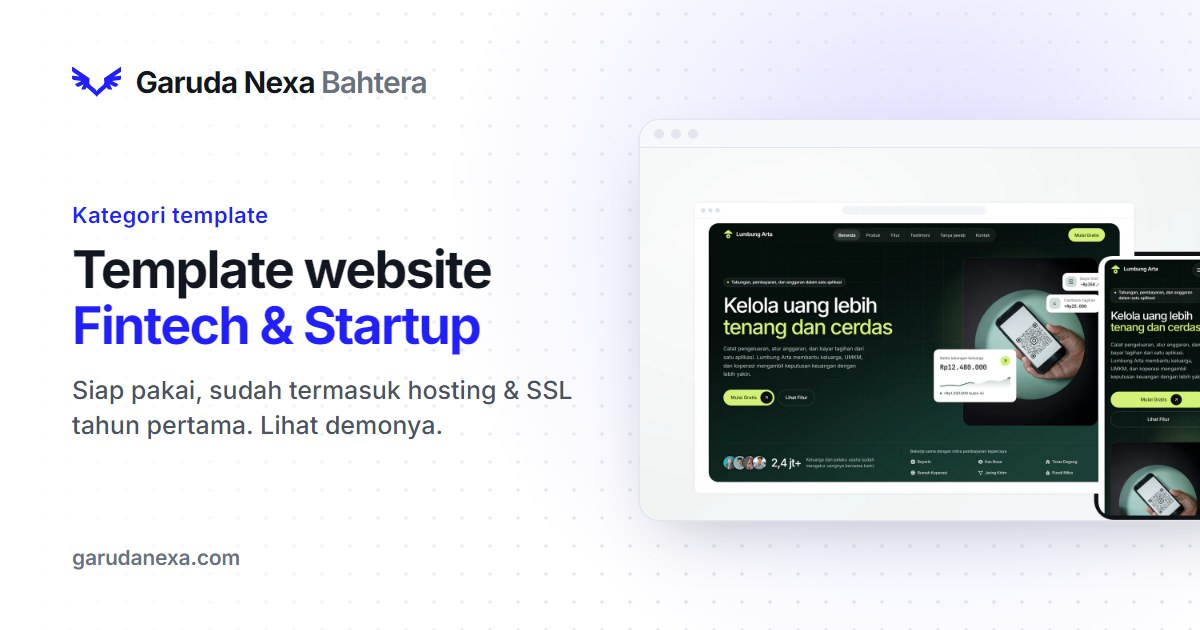
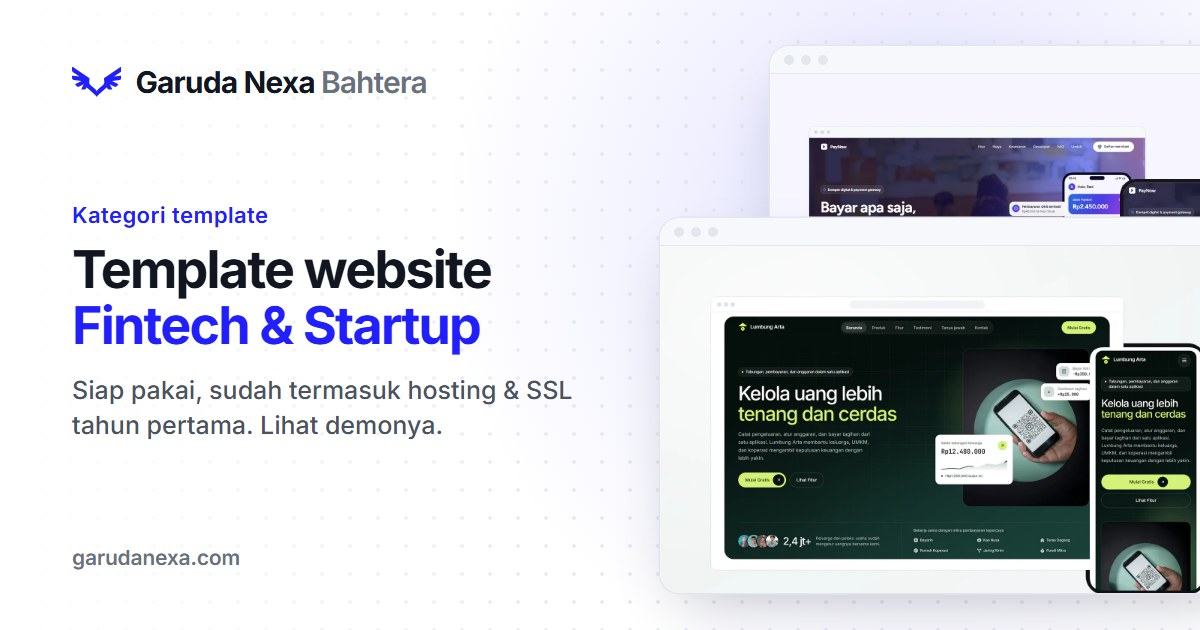
feat(seo): OG cards for the eight 2026-10-28 templates and two new categories
Template cards for Sparring Padel, SmashHall, PayNow, MediCare General, MomKid Hospital, SpecialistPlus, HealthLink and HomeNest; category cards for Kesehatan & Rumah Sakit and Properti & Real Estate. The catalog card now shows the two newest templates and lists the new categories, and the Fintech & Startup and Olahraga & Komunitas cards show their second template. Rendered from the local API (production data plus the eight new rows); other cards are unchanged.

diff --git a/src/seo/ogCards.generated.ts b/src/seo/ogCards.generated.ts
@@ -9,7 +9,9 @@ export const OG_CARDS: readonly string[] = [
   'kategori-company-profile',
   'kategori-fintech-startup',
   'kategori-kecantikan-klinik',
+  'kategori-kesehatan-rumah-sakit',
   'kategori-olahraga-komunitas',
+  'kategori-properti-real-estate',
   'kategori-sekolah-pendidikan',
   'kategori-toko-online',
   'kategori-yoga-wellness',
@@ -25,16 +27,24 @@ export const OG_CARDS: readonly string[] = [
   'template-finova',
   'template-gadgetku',
   'template-glowstory',
+  'template-healthlink',
+  'template-homenest',
   'template-jumantara',
   'template-madani',
+  'template-medicare-general',
+  'template-momkid',
   'template-nawasena',
   'template-nusaniaga',
+  'template-paynow',
   'template-portline',
   'template-pradipta',
   'template-puncakgear',
   'template-saudagar',
   'template-serenity',
   'template-skynusa',
+  'template-smashhall',
+  'template-sparring-padel',
+  'template-specialistplus',
   'template-startup-clean',
   'template-tanimakmur',
   'template-velora',
